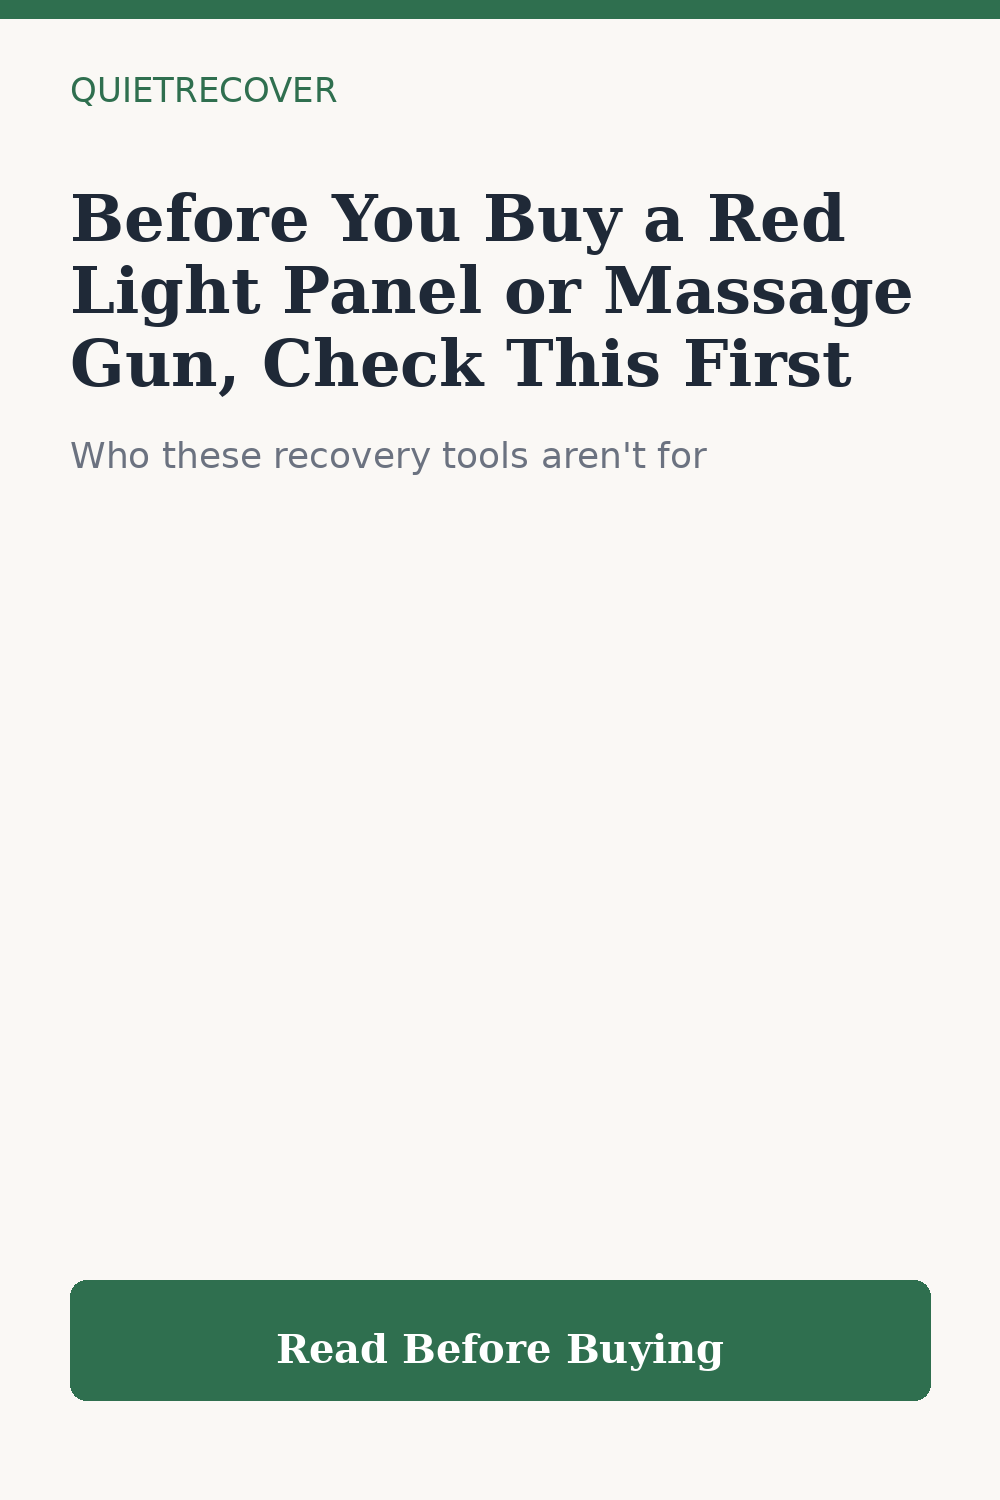
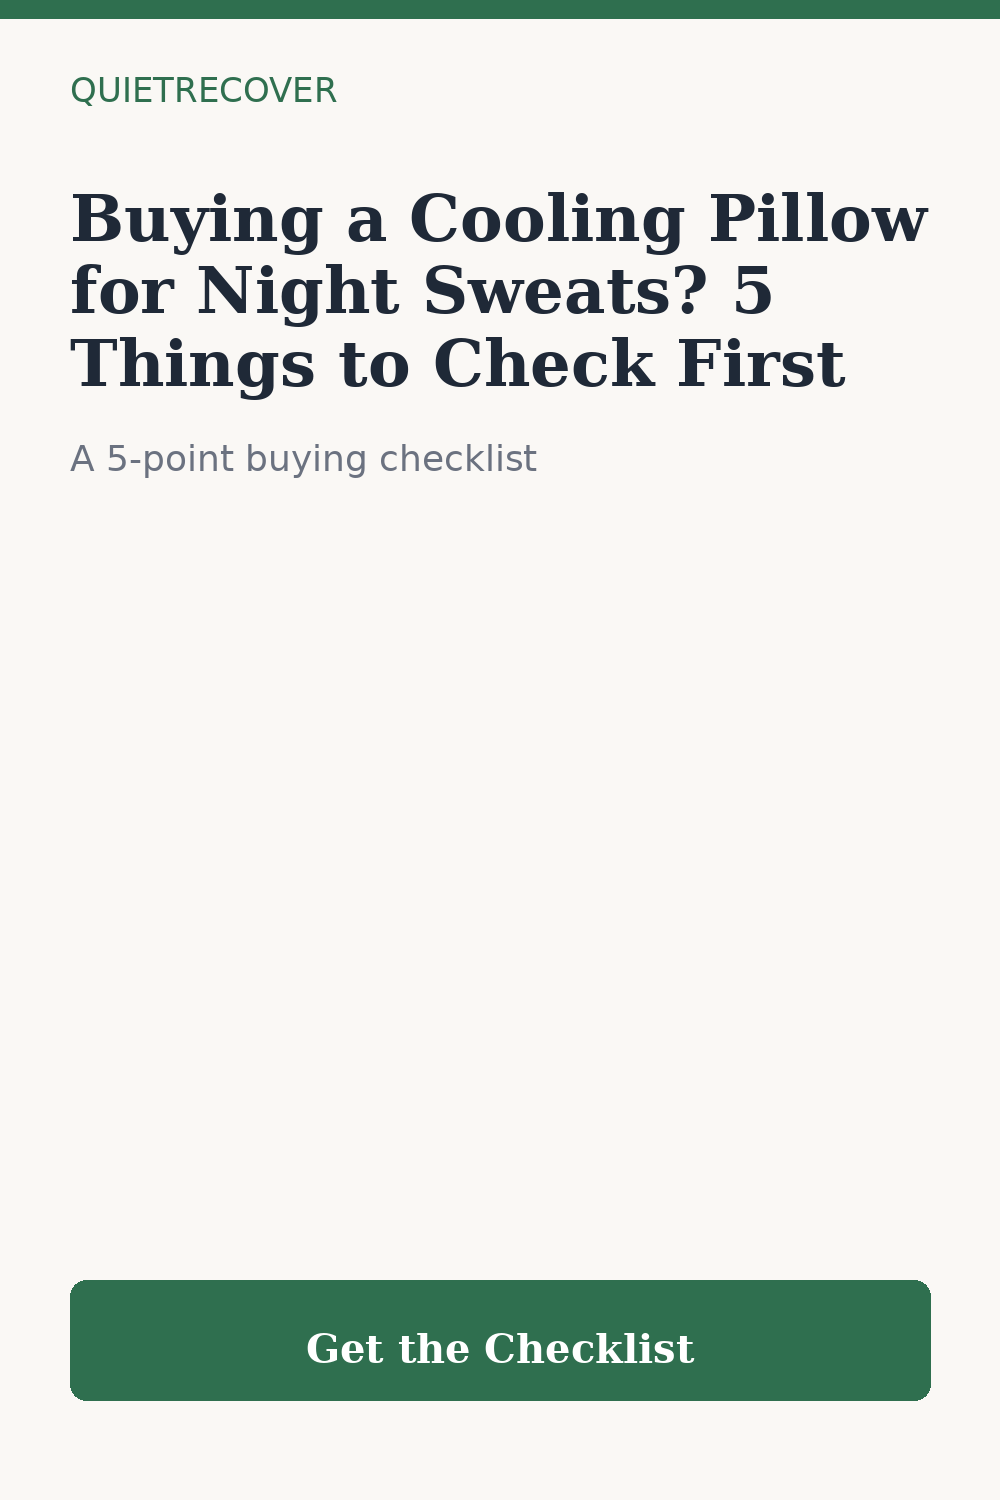
cycle: publish menopause cooling pillow guide (2026-09-12) + promotion manifest

Changed region(s): [[0.062, 0.1227, 0.93, 0.3373], [0.279, 0.8893, 0.744, 0.92], [0.651, 0.276, 0.682, 0.3067]]

diff --git a/src/posts/best-cooling-pillow-for-menopause-night-sweats.md b/src/posts/best-cooling-pillow-for-menopause-night-sweats.md
@@ -1,0 +1,143 @@
+---
+layout: post.njk
+title: "Best Cooling Pillow for Menopause Night Sweats: 3 Picks That Actually Help You Sleep Cooler"
+description: "Night sweats and hot flashes keeping you up? Compare the best cooling pillows and a cooling mattress topper for menopause — with a simple guide to which type fits you."
+date: 2026-09-12
+tags: post
+category: Sleep
+---
+
+*Disclosure: This post contains affiliate links. If you purchase through one of them, we may earn a commission at no extra cost to you. This article is for general informational purposes only and is not a substitute for medical advice.*
+
+If you've been waking up at 2 a.m. with a soaked pillow and no idea whether to strip the sheets or just lie there sweating it out, you're not alone. Night sweats and hot flashes are one of the most disruptive parts of the menopause transition for a lot of people, and bedding is often the first (and easiest) thing to adjust before anything else changes. This guide walks through what's going on, what cooling pillows and toppers can realistically do, and three specific products worth considering — plus a simple way to figure out which one actually matches your situation.
+
+## What's Actually Happening When You Wake Up Hot at Night? (Non-Medical Overview)
+
+Before anything else: we're not doctors, and this section isn't medical advice. It's a general, non-clinical overview meant to give context — not a diagnosis or treatment plan.
+
+During perimenopause and menopause, shifting hormone levels can affect how the body regulates temperature, which is part of why hot flashes and night sweats are so common during this stage of life. For some people this shows up as a sudden wave of heat that passes in a few minutes; for others, it means waking up drenched multiple times a night. The experience varies a lot from person to person — some people notice it mildly for a short stretch, others deal with it for years, and some barely notice a difference at all. There's no single "normal" timeline, and how intense or frequent it gets is genuinely individual.
+
+Because the experience is so different from one person to the next, there's no one-size-fits-all fix. Bedding adjustments are just one piece of a larger picture that can also include room temperature, sleepwear, sleep habits, and, for some people, conversations with a healthcare provider about medical options. This article focuses specifically on the bedding piece.
+
+## Can Cooling Pillows or Toppers Really Help With Hot Flashes? What They Can (and Can't) Do
+
+It's worth being upfront here: a cooling pillow is not going to stop a hot flash from happening. Hot flashes and night sweats originate from internal temperature regulation, and no pillow or topper changes that process. What cooling bedding can do is reduce how much heat builds up around your head, neck, and body while you sleep, which may make it more comfortable to fall back asleep once a hot flash passes — and for some people, it may take the edge off the overall feeling of overheating during the night.
+
+Think of it less as a treatment and more as removing one variable that makes a hard night harder. A pillow that traps heat against a pillow-top mattress, combined with heavy bedding, can make an already warm night feel worse. Swapping in materials designed to move heat away from your body — rather than insulate it — is a reasonable, low-risk adjustment. Some research on cooling textiles and gel-infused foams suggests they can measurably lower surface temperature compared to standard memory foam, though results vary by product and by person, and none of this is a guarantee of a cooler night every time.
+
+In short: cooling pillows and toppers are a supporting tool, not a solution to hot flashes themselves. If your night sweats are frequent, severe, or affecting your quality of life, that's worth discussing with a healthcare provider separately from any bedding purchase.
+
+## How We Picked These 3 Products
+
+We looked at cooling pillows and toppers marketed specifically around heat retention, comparing materials (gel-infused memory foam vs. cooling-cover-only designs), breathability claims, adjustability, washability, and customer feedback mentioning night sweats or hot flashes specifically. The three below stood out as covering distinct needs rather than being interchangeable options.
+
+## Cooling Pillow & Topper Comparison Table
+
+| Product | Type | Price Range | Material | Machine Washable | Best For |
+|---|---|---|---|---|---|
+| <a href="https://www.amazon.com/s?k=Coop+Home+Goods+Cooling+Pillow&tag=quietrecover-20" rel="nofollow sponsored" target="_blank">Coop Home Goods Cooling Pillow</a> | Adjustable pillow | $$ | Shredded memory foam + gel, cooling cover | Cover: yes; fill: spot clean | People who want to customize loft/firmness |
+| <a href="https://www.amazon.com/s?k=Elviros+Cervical+Cooling+Pillow&tag=quietrecover-20" rel="nofollow sponsored" target="_blank">Elviros Cervical Cooling Pillow</a> | Contour pillow | $$ | Gel memory foam, ergonomic shape | Cover: yes; fill: no | People with neck/shoulder tension plus heat |
+| <a href="https://www.amazon.com/s?k=Linenspa+Cooling+Gel+Memory+Foam+Topper&tag=quietrecover-20" rel="nofollow sponsored" target="_blank">Linenspa Cooling Gel Memory Foam Topper</a> | Mattress topper | $$$ | Gel-infused memory foam | No (spot clean only) | People whose heat isn't just at the head/neck |
+
+<div class="cta-box">
+<p><strong>Not sure which type fits your situation?</strong> Skip to the "Which Type Are You" section below for a quick way to narrow it down.</p>
+<a href="https://www.amazon.com/s?k=Cooling+Pillow+For+Night+Sweats&tag=quietrecover-20" rel="nofollow sponsored" target="_blank">Browse Cooling Pillows on Amazon</a>
+</div>
+
+## Top Picks for Menopause Night Sweats
+
+<a id="type-a"></a>
+
+### 1. Coop Home Goods Cooling Pillow — Best Overall (Adjustable Loft)
+
+This pillow uses a shredded memory foam and gel fill inside a cooling-fabric cover, and the big draw is that you can add or remove fill to adjust the loft and firmness yourself. That matters for hot sleepers because a pillow that's too thick or dense tends to trap more heat against your neck and face. The cover is machine washable, which is a genuinely useful feature if night sweats mean you're washing bedding more often than you used to.
+
+Who it's for: side and back sleepers who want a customizable feel and don't mind a slightly higher price point for adjustability.
+
+Who it's not for: anyone who wants a pillow that arrives at a fixed, "set it and forget it" firmness — the adjustment process (adding/removing fill) takes a bit of trial and error. It's also not the best pick if your main issue is heat across your whole body rather than just around your head and neck; for that, the topper option later in this list is a better fit.
+
+<div class="cta-box">
+<p><strong>Coop Home Goods Cooling Pillow</strong> — adjustable fill and a cooling cover for people who want to dial in their own comfort level.</p>
+<a href="https://www.amazon.com/s?k=Coop+Home+Goods+Cooling+Pillow&tag=quietrecover-20" rel="nofollow sponsored" target="_blank">Check Price on Amazon</a>
+</div>
+
+<a id="type-b"></a>
+
+### 2. Elviros Cervical Cooling Pillow — Best for Neck & Shoulder Support
+
+This one is a contour pillow, meaning it's shaped with curves and ridges designed to support the neck rather than being a flat, uniform rectangle. It's built from gel memory foam, which tends to run cooler than standard memory foam, and the shaping is aimed at people dealing with neck or shoulder tension alongside their sleep issues — something that can be more noticeable when frequent waking already has you feeling stiff and unrested.
+
+Who it's for: people who deal with neck or shoulder discomfort in addition to overheating at night, and who sleep primarily on their back or side (contour pillows generally don't suit stomach sleepers).
+
+Who it's not for: stomach sleepers, or anyone who prefers a soft, flat, traditional pillow shape. The firmer, structured design is a specific preference — some people find contour pillows take a few nights to adjust to, and others don't get along with the shape at all.
+
+<div class="cta-box">
+<p><strong>Elviros Cervical Cooling Pillow</strong> — a contoured, gel-cooled design for side/back sleepers dealing with neck tension and heat.</p>
+<a href="https://www.amazon.com/s?k=Elviros+Cervical+Cooling+Pillow&tag=quietrecover-20" rel="nofollow sponsored" target="_blank">Check Price on Amazon</a>
+</div>
+
+<a id="type-c"></a>
+
+### 3. Linenspa Cooling Gel Memory Foam Topper — Best When One Pillow Isn't Enough
+
+If the heat isn't just at your head and neck — if you wake up with your back, legs, or the whole bed feeling warm — a pillow alone probably isn't going to address that. A cooling gel memory foam topper sits on top of your existing mattress and is meant to reduce the heat buildup that standard memory foam mattresses are known for. It's a bigger investment than a pillow, both in cost and in the fact that it needs to match your mattress size, but it addresses a different problem than a pillow can.
+
+Who it's for: people whose night sweats or overheating affect more than just the head/neck area, or anyone whose current mattress already runs warm regardless of hormones.
+
+Who it's not for: people on a tight budget, renters or frequent movers (toppers are bulky to transport), or anyone whose mattress already sleeps cool — in that case, a topper may not add much benefit and a pillow swap alone could be enough.
+
+<div class="cta-box">
+<p><strong>Linenspa Cooling Gel Memory Foam Topper</strong> — for when heat retention is a whole-mattress problem, not just a pillow problem.</p>
+<a href="https://www.amazon.com/s?k=Linenspa+Cooling+Gel+Memory+Foam+Topper&tag=quietrecover-20" rel="nofollow sponsored" target="_blank">Check Price on Amazon</a>
+</div>
+
+## Cooling Mattress Topper vs. Cooling Pillow for Hot Flashes: Which Do You Actually Need?
+
+This comes down almost entirely to where you feel the heat. If it's localized — your face, scalp, and neck feel hot but the rest of the bed feels fine — a cooling pillow addresses that directly and is the lower-cost, lower-effort option. If the heat feels more general, spreading to your back, legs, or the mattress surface itself, a topper is treating a bigger part of the problem that a pillow simply can't reach.
+
+A rough way to think about it: pillows cool a small, specific zone; toppers cool the whole sleep surface. Some people end up using both — a topper for the mattress and a cooling pillow layered on top — though that's a bigger investment and not necessary for everyone. Start with whichever matches where you actually feel hot most nights.
+
+## Which Type Are You? Pick From These 3
+
+**Type A — Heat is mostly at your head and neck.** A pillow swap alone is likely your best starting point. See the [Coop Home Goods Cooling Pillow](#type-a) above.
+
+**Type B — Head/neck heat, plus stiffness or tension in your neck and shoulders.** Look at the [Elviros Cervical Cooling Pillow](#type-b), which combines cooling material with ergonomic support.
+
+**Type C — The whole bed feels warm, or heat extends to your back and legs.** A pillow won't be enough on its own; the [Linenspa Cooling Gel Memory Foam Topper](#type-c) addresses the mattress surface itself.
+
+## Cooling Bedding Checklist Before You Buy
+
+- **Is it actually a cooling material?** Look for gel infusion, phase-change cooling fabric, or breathable knit covers — not just a marketing label with no material backing it up.
+- **How breathable is the fill or foam?** Solid memory foam tends to retain more heat than shredded foam or hybrid fills, regardless of any cooling cover on top.
+- **Is the cover machine washable?** With frequent night sweats, this matters more than it might seem — you'll likely be washing bedding more often.
+- **Does it come with a trial period or return policy?** Cooling comfort is subjective, and having the option to return a product that doesn't work for you reduces the risk of the purchase.
+- **Does it match your sleep position?** A contour pillow that's great for side sleepers can be uncomfortable for stomach sleepers, no matter how well it cools.
+
+<div class="cta-box">
+<p><strong>Ready to compare options side by side?</strong> Check current pricing and availability before deciding.</p>
+<a href="https://www.amazon.com/s?k=Cooling+Pillow+Menopause+Night+Sweats&tag=quietrecover-20" rel="nofollow sponsored" target="_blank">Shop Cooling Pillows on Amazon</a>
+</div>
+
+## Frequently Asked Questions
+
+**Do cooling pillows really work for menopause hot flashes?**
+They're not a fix for hot flashes themselves, but some people find that reducing heat buildup around the head and neck makes it easier to settle back to sleep after waking up hot. Results vary from person to person, and a pillow won't change the underlying hormonal process.
+
+**How long do cooling pillows stay cool?**
+This depends heavily on the material. Gel-infused foams and cooling covers typically feel cool to the touch initially and gradually equalize to body temperature over time, though they generally still run cooler than standard memory foam throughout the night. No cooling pillow stays cold indefinitely — that's a common misconception worth being aware of before buying.
+
+**Is a cooling mattress topper better than a cooling pillow for night sweats?**
+Neither is universally "better" — it depends on where you feel the heat. A topper addresses the whole sleep surface, while a pillow targets a smaller area. Some research on cooling bedding materials suggests both can help reduce surface heat, but individual experience varies.
+
+**Are there other cooling pillow options worth considering?**
+Yes — options like the <a href="https://www.amazon.com/s?k=Degree+of+Comfort+Adjustable+Cooling+Pillow&tag=quietrecover-20" rel="nofollow sponsored" target="_blank">Degree of Comfort Adjustable Cooling Pillow</a>, <a href="https://www.amazon.com/s?k=Sleep+Innovations+Gel+Memory+Foam+Cooling+Pillow&tag=quietrecover-20" rel="nofollow sponsored" target="_blank">Sleep Innovations Gel Memory Foam Cooling Pillow</a>, and <a href="https://www.amazon.com/s?k=Bedsure+Cooling+Pillow&tag=quietrecover-20" rel="nofollow sponsored" target="_blank">Bedsure Cooling Pillow</a> are reasonable alternatives if the three main picks above don't fit your budget or sleep style. They weren't chosen as top picks here, but they use similar cooling-material approaches.
+
+## A Quick Note on Menopause, Sleep, and Medical Advice
+
+Everything in this article is general information about bedding products, not medical guidance. Menopause symptoms, including night sweats and hot flashes, vary widely from person to person, and bedding changes are just one small piece of managing sleep disruption during this stage of life. If your symptoms are frequent, severe, or significantly affecting your sleep or daily functioning, it's worth speaking with a doctor or healthcare provider about the full range of options available — some of which are medical and go beyond anything a pillow or topper can address. This article, and this site more broadly, isn't a substitute for that conversation.
+
+## Related Reads
+
+If your main struggle at night is a racing mind or anxiety rather than heat, our guide to {{ '/posts/weighted-blankets-sleep-anxiety/' | url }} covers a different approach to a calmer night's sleep.
+
+If you're trying to improve your whole sleep environment — not just the bedding — our roundup of {{ '/posts/best-quiet-bedroom-humidifiers-for-fall/' | url }} looks at air quality and humidity as another piece of the puzzle.
